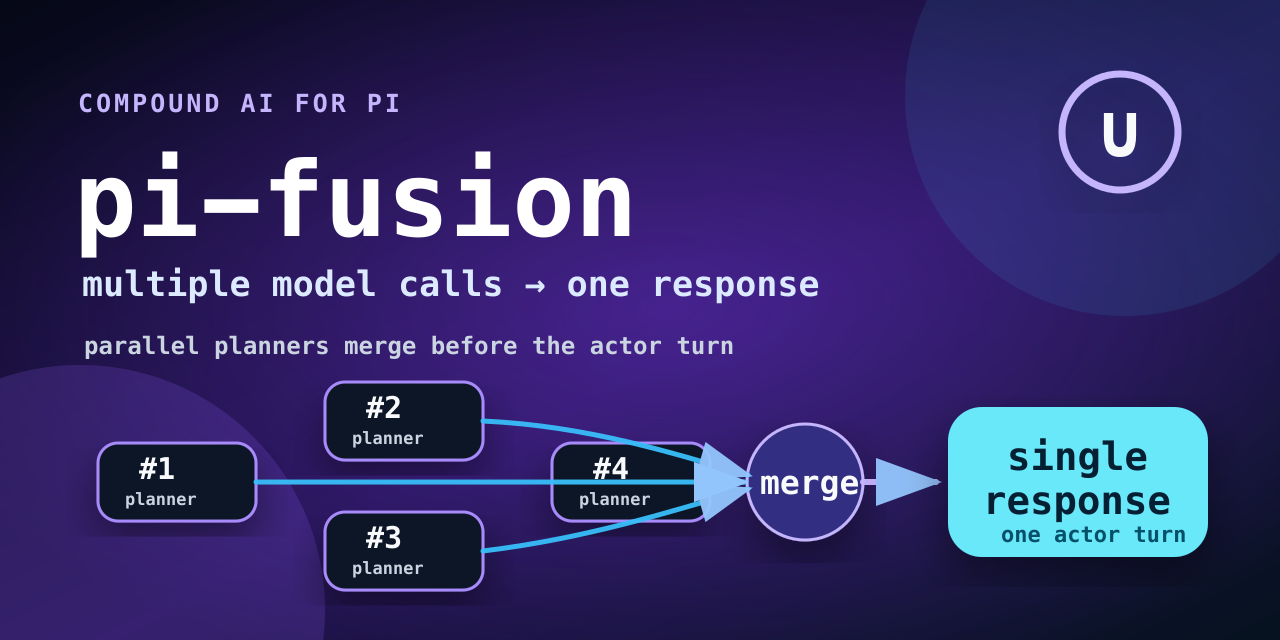
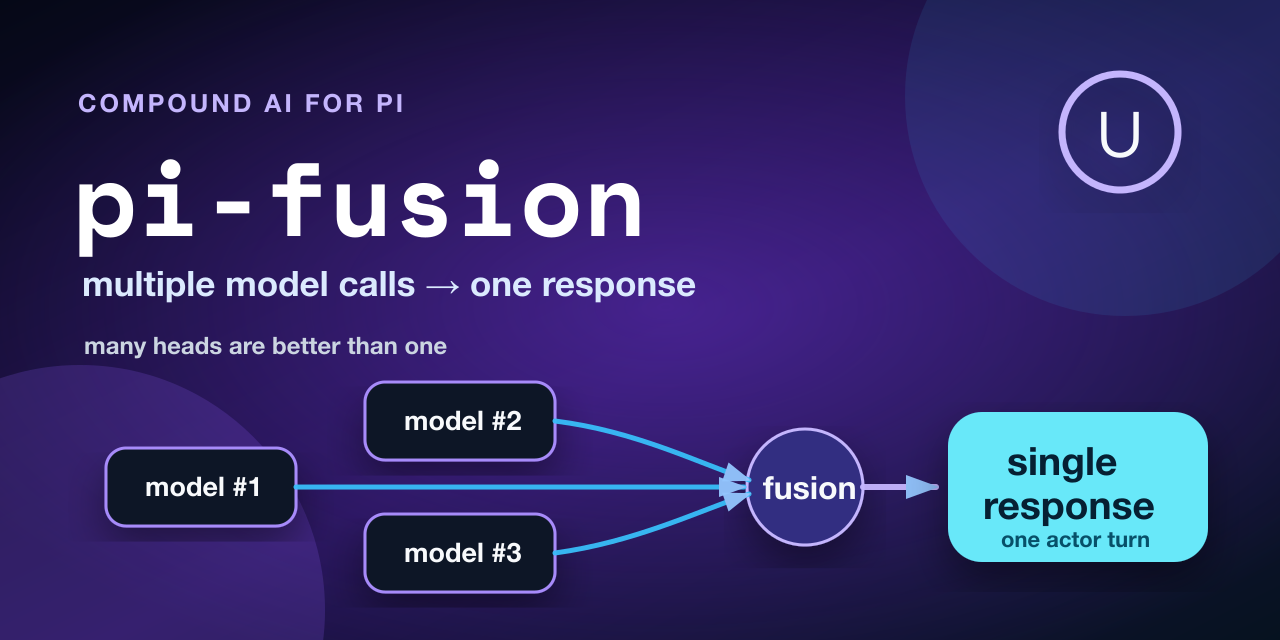
Refine social preview diagram and planning references
- Use Space Mono only for the social-preview title, with system sans-serif elsewhere.
- Install Space Mono locally for correct rendering and regenerate the PNG.
- Simplify the diagram to three model nodes, smaller arrowheads, and a fusion node.
- Update the tagline and README research references.

Verify with:
  pnpm run check
  rsvg-convert docs/assets/social-preview.svg -o docs/assets/social-preview.png

Output:
  Format, lint, typecheck, tests, and smoke all passed.
  Test run: 23 tests across 7 suites, 0 failures.

diff --git a/README.md b/README.md
@@ -33,6 +33,8 @@ Open pi and turn it on from the settings pane:
 
 **pi-fusion adds a planning fanout to pi.** Before the normal actor turn starts, it runs one read-only discovery agent, rewrites your prompt into complementary angles, fans out to a few read-only planner workers, then injects their notes into the actor's system prompt for that turn.
 
+That synthesis step matters. A recurring result in the multi-call and multi-agent literature is that combining independent model responses can outscore the individual frontier models on many benchmarks. Not because the system is magic; because independent passes fail differently, and a final actor can reuse the useful disagreement instead of betting everything on one path through the problem.
+
 The practical version: spend a little latency to buy fewer blind spots before the agent edits your repo. I built it as a test harness, not a grand theory of agency. It is useful when the problem is fuzzy enough that one model path may miss something.
 
 N.B. OpenRouter has a hosted Fusion router (`openrouter/fusion`) that runs a multi-model panel and judge behind one API route. pi-fusion is similar. It runs local read-only pi subprocesses against your working tree, and hands their notes to the actor model you already chose. You control all configuration of how this happens.
@@ -64,11 +66,11 @@ The bet is simple: not all reasoning has to happen as one long serial chain insi
 
 A few useful breadcrumbs:
 
+- ["Frontier Large Language Models Rival State-of-the-Art Planners"](https://arxiv.org/html/2511.09378v2) shows current frontier models can compete with, and in some cases beat, classical planner baselines on fresh International Planning Competition-style tasks.
 - Berkeley BAIR's ["The Shift from Models to Compound AI Systems"](https://bair.berkeley.edu/blog/2024/02/18/compound-ai-systems/) defines compound AI systems as systems that use multiple interacting components: model calls, retrievers, tools, or control logic.
 - Chen et al., ["Are More LLM Calls All You Need?"](https://arxiv.org/abs/2403.02419), studies scaling laws for compound inference systems that aggregate multiple LM calls.
 - Snell et al., ["Scaling LLM Test-Time Compute Optimally"](https://arxiv.org/abs/2408.03314), frames inference-time compute as its own scaling axis.
 - Brown et al., ["Large Language Monkeys"](https://arxiv.org/abs/2407.21787), shows repeated sampling can amplify weaker models, sometimes cost-effectively.
-- Qi et al., ["Learning to Reason Across Parallel Samples"](https://arxiv.org/abs/2506.09014), studies aggregation across multiple sampled reasoning paths.
 - Wang et al., ["Mixture-of-Agents"](https://arxiv.org/abs/2406.04692), shows multiple LLM agents can improve final answer quality when their outputs are aggregated.
 
 My own evals point in the same direction for a subset of coding tasks: parallel planner calls can be cheaper, faster wall-clock, and better than sending everything straight to the biggest model. Not always. The whole point of this repo is to make that claim easy to test instead of treating it like a vibes-based architectural diagram.